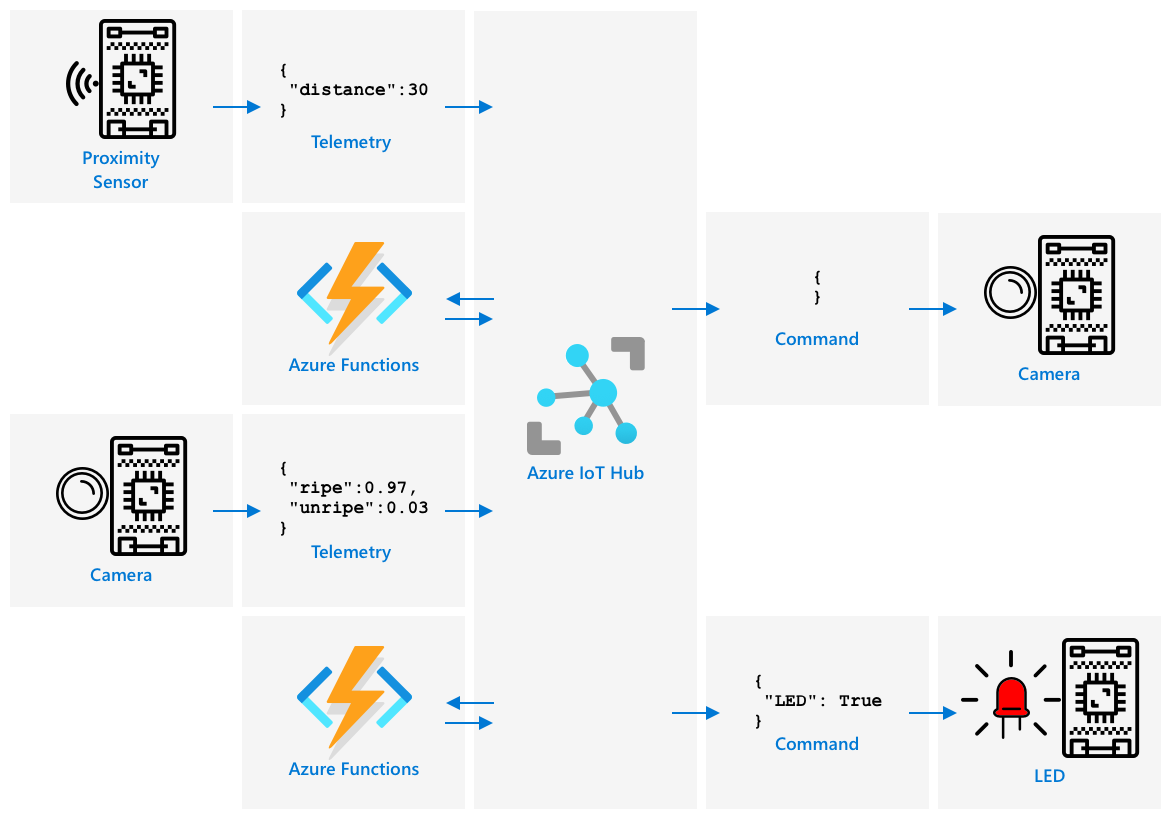
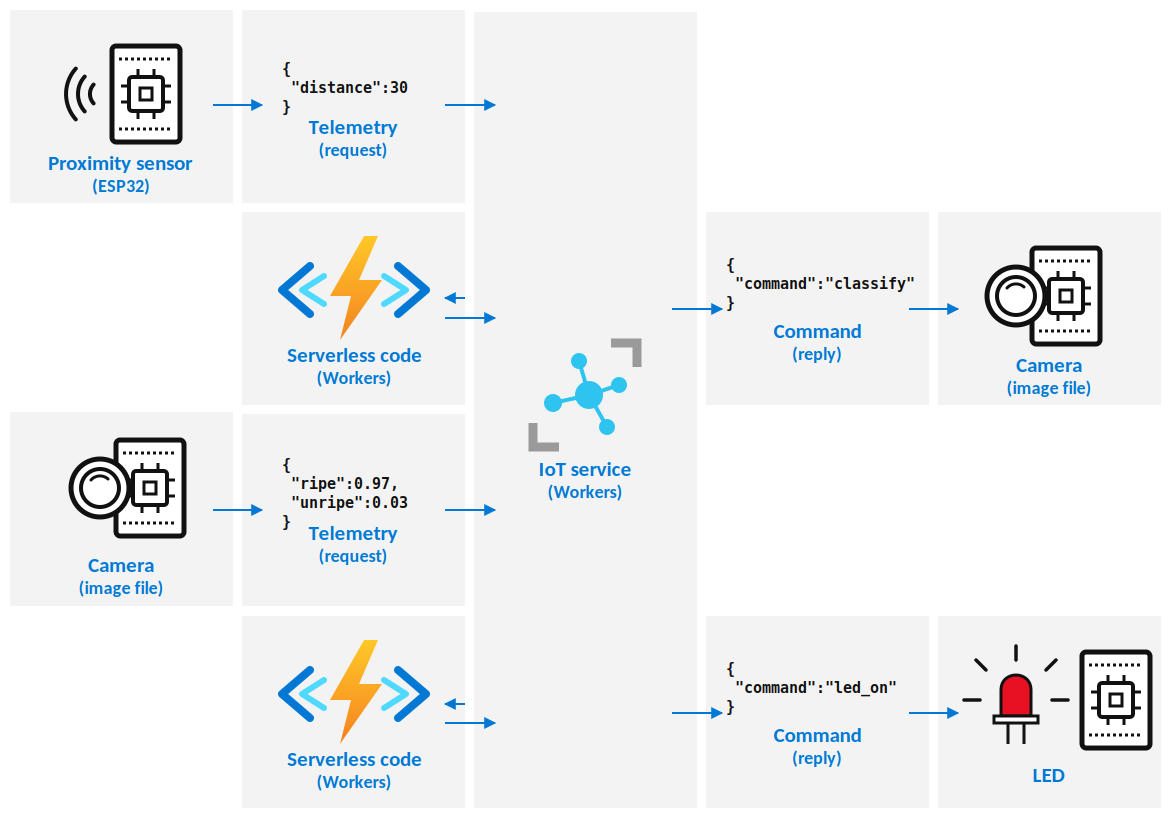
Update

diff --git a/4-manufacturing/lessons/16-trigger-fruit-detector/README.md b/4-manufacturing/lessons/16-trigger-fruit-detector/README.md
@@ -19,10 +19,6 @@ In this lesson we'll cover:
 * [Using developer devices to simulate multiple IoT devices](#using-developer-devices-to-simulate-multiple-iot-devices)
 * [Moving to production](#moving-to-production)
 
-> 🗑 This is the last lesson in this project, so after completing this lesson and the assignment, don't forget to clean up your cloud services. You will need the services to complete the assignment, so make sure to complete that first.
->
-> Refer to [the clean up your project guide](../../../clean-up.md) if necessary for instructions on how to do this.
-
 ## Architect complex IoT applications
 
 IoT applications are made up of many components. This includes a variety of things, and a variety of internet services.
@@ -45,16 +41,15 @@ The diagram above shows a reference IoT architecture.
 * **Insights** come from serverless applications, or from analytics run on stored data.
 * **Actions** can be commands sent to devices, or visualization of data allowing humans to make decisions.
 
-![A reference iot architecture](../../../images/iot-reference-architecture-azure.png)
+![A reference iot architecture with the services used in these lessons](../../../images/iot-reference-architecture-cloudflare.png)
 
-The diagram above shows some of the components and services covered so far in these lessons and how the link together in a reference IoT architecture.
+The diagram above shows some of the components and services covered so far in these lessons and how they link together in a reference IoT architecture.
 
-* **Things** - you've written device code to capture data from sensors, and analyse images using Custom Vision running both in the cloud and on an edge device. This data was sent to IoT Hub.
-* **Insights** - you've used Azure Functions to respond to messages sent to an IoT Hub, and stored data for later analysis in Azure Storage.
-* **Actions** - you've controlled actuators based on decisions made in the cloud and commands sent to the devices, and you've visualized data using Azure Maps.
+* **Things** - you've written device code to capture data from sensors, and classify images using a Roboflow model running both in the cloud and on an edge server. This data was sent to your IoT service on Cloudflare Workers.
+* **Insights** - you've used serverless code in your IoT service to respond to the telemetry it receives, and stored data for later analysis in Workers KV.
+* **Actions** - you've controlled actuators based on decisions made in the cloud and commands sent back to the devices, and you've visualized data on a map using Leaflet and OpenStreetMap.
 
-
-✅ Think about other IoT devices you have used, such as smart home appliances. What are the things, insights and actions involved in that device and it's software?
+✅ Think about other IoT devices you have used, such as smart home appliances. What are the things, insights and actions involved in that device and its software?
 
 This pattern can be scaled out as large or small as you need, adding more devices and more services.
 
@@ -78,11 +73,11 @@ Imagine you have been given the task of building a fruit quality detector to be 
 
 You need to build a system where fruit is detected as it arrives on the conveyer belt, it is then photographed and checked using an AI model running on the edge. The results are then sent to the cloud to be stored, and if the fruit is unripe a notification is given so the unripe fruit can be removed.
 
-|   |   |
-| - | - |
-| **Things** | Detector for fruit arriving on the conveyor belt<br>Camera to photograph and classify the fruit<br>Edge device running the classifier<br>Device to notify of unripe fruit |
-| **Insights** | Decide to check the ripeness of the fruit<br>Store the results of the ripeness classification<br>Determine if there is a need to alert about unripe fruit |
-| **Actions** | Send a command to a device to photograph the fruit and check it with an image classifier<br>Send a command to a device to alert that the fruit is unripe |
+|              |                                                                                                                                                                           |
+|--------------|---------------------------------------------------------------------------------------------------------------------------------------------------------------------------|
+| **Things**   | Detector for fruit arriving on the conveyor belt<br>Camera to photograph and classify the fruit<br>Edge device running the classifier<br>Device to notify of unripe fruit |
+| **Insights** | Decide to check the ripeness of the fruit<br>Store the results of the ripeness classification<br>Determine if there is a need to alert about unripe fruit                 |
+| **Actions**  | Send a command to a device to photograph the fruit and check it with an image classifier<br>Send a command to a device to alert that the fruit is unripe                  |
 
 ### Prototyping your application
 
@@ -91,13 +86,15 @@ You need to build a system where fruit is detected as it arrives on the conveyer
 The diagram above shows a reference architecture for this prototype application.
 
 * An IoT device with a proximity sensor detects the arrival of fruit. This sends a message to the cloud to say fruit has been detected.
-* A serverless application in the cloud sends a command to another device to take a photograph and classify the image.
-* An IoT device with a camera takes a picture and sends it to an image classifier running on the edge. The results are then sent to the cloud.
-* A serverless application in the cloud stores this information to be analyzed later to see what percentage of fruit is unripe. If the fruit is unripe it sends a command to another iot device to alert factory workers there is unripe fruit via an LED.
+* Serverless code in your IoT service in the cloud sends a command to another device to take a photograph and classify the image.
+* An IoT device with a camera takes a picture and sends it to an image classifier running on the edge, the Roboflow Inference server you set up in the previous project. The results are then sent to the cloud.
+* Serverless code in your IoT service stores this information to be analyzed later to see what percentage of fruit is unripe. If the fruit is unripe it sends a command to another IoT device to alert factory workers there is unripe fruit via an LED.
 
-> 💁 This entire IoT application could be implemented as a single device, with all the logic to start the image classification and control the LED built in. It could use an IoT Hub just to track the number of unripe fruits detected and configure the device. In this lesson it is expanded to demonstrate the concepts for large scale IoT applications.
+> 💁 This entire IoT application could be implemented as a single device, with all the logic to start the image classification and control the LED built in. It could use an IoT service just to track the number of unripe fruits detected and configure the device. In this lesson it is expanded to demonstrate the concepts for large scale IoT applications.
 
-For the prototype, you will implement all of this on a single device. If you are using a microcontroller then you will use a separate edge device to run the image classifier. You have already learned most of the things you will need to be able to build this.
+> 💁 In your IoT service, commands travel in the reply to the telemetry that a device sends, and a device only receives a command when it sends a request. In this prototype all the devices are simulated by one program on one board, so this program sends the telemetry and acts on the commands in the replies, and passes them to the right part of the program.
+
+For the prototype, you will implement all of this on a single device. Your ESP32 will use a separate edge device, such as the virtual machine from the previous project, to run the image classifier. Since your board does not have a camera, it will use an image file stored on the board, as you did in the previous projects. You have already learned most of the things you will need to be able to build this.
 
 ## Trigger fruit quality checking from a sensor
 
@@ -109,22 +106,16 @@ Proximity sensors can be used to measure the distance from the sensor to an obje
 
 > 💁 You have probably used proximity sensors without even knowing about it. Most smartphone will turn the screen off when you hold them to your ear to stop you accidentally ending a call with your earlobe, and this works using a proximity sensor, detecting an object close to the screen during a call and disabling the touch capabilities until the phone is a certain distance away.
 
-### Task - trigger fruit quality detection from a distance sensor
-
-Work through the relevant guide to use a proximity sensor to detect an object using your IoT device:
-
-* **[Virtual IoT device](virtual-device-proximity.md) <<<<----------**
-
 ## Data used for a fruit quality detector
 
 The prototype fruit detector has multiple components communicating with each other.
 
 ![The components communicating with each other](../../../images/fruit-quality-detector-message-flow.png)
 
-* A proximity sensor measuring the distance to a piece of fruit and sending this to IoT Hub
-* The command to control the camera coming from IoT Hub to the camera device
-* The results of the image classification being sent to IoT Hub
-* The command to control an LED to alert when the fruit is unripe being sent from IoT Hub to the device with the LED
+* A proximity sensor measuring the distance to a piece of fruit and sending this to the IoT service
+* The command to control the camera coming back from the IoT service to the camera device
+* The results of the image classification being sent to the IoT service
+* The command to control an LED to alert when the fruit is unripe coming back from the IoT service to the device with the LED
 
 It is good to define the structure of these messages up front, before you build out the application.
 
@@ -152,23 +143,17 @@ You also have to consider units - is the temperature in °C or °F? If you are m
 
 Think about the data being sent for the fruit quality detector. How would you define each message? Where would you analyze the data and make decisions about what data to send?
 
-For example - triggering the image classification using the proximity sensor. The IoT device measures the distance, but where is the decision made? Does the device decide that the fruit is close enough and sends a message to tell the IoT Hub to trigger the classification? Or does it send proximity measurements and let the IoT Hub decide?
+For example - triggering the image classification using the proximity sensor. The IoT device measures the distance, but where is the decision made? Does the device decide that the fruit is close enough and sends a message to tell the IoT service to trigger the classification? Or does it send proximity measurements and let the IoT service decide?
 
 The answer to questions like this is - it depends. Each use case is different, which is why as an IoT developer you need to understand the system you are building, how it is used, and the data being detected.
 
-* If the decision is made by the IoT Hub, you need to send multiple distance measurements.
-* If you send too many messages, it increases the cost of the IoT Hub, and the amount of bandwidth needed by your IoT devices (especially in a factory with millions of devices). It can also slow down your device.
+* If the decision is made by the IoT service, you need to send multiple distance measurements.
+* If you send too many messages, it increases the cost of the IoT service, and the amount of bandwidth needed by your IoT devices (especially in a factory with millions of devices). It can also slow down your device. For example, one distance measurement every second is 86,400 requests a day for a single device, and the free plan of Cloudflare Workers allows 100,000 requests a day.
 * If you make the decision on the device, you will need to provide a way to configure the device to fine tune the machine.
 
 ## Using developer devices to simulate multiple IoT devices
 
 To build your prototype, you will need your IoT dev kit to act like multiple devices, sending telemetry and responding to commands.
-
-### Simulating multiple IoT devices on a Raspberry Pi or virtual IoT hardware
-
-When using a single board computer like a Raspberry Pi, you are able to run multiple applications at once. This means you can simulate multiple IoT devices by creating multiple applications, one per 'IoT device'. For example, you can implement each device as a separate Python file and run them in different terminal sessions.
-
-> 💁 Be aware that some hardware won't work when being accessed by multiple applications running simultaneously.
 
 ### Simulating multiple devices on a microcontroller
 
@@ -176,8 +161,8 @@ Microcontrollers are more complicated to simulate multiple devices. Unlike singl
 
 Some suggestions to make this process easier are:
 
-* Create one or more classes per IoT device - for example classes called `DistanceSensor`, `ClassifierCamera`, `LEDController`. Each one can have it's own `setup` and `loop` methods called by the main `setup` and `loop` functions.
-* Handle commands in a single place, and direct them to the relevant device class as required.
+* Create one or more classes per IoT device - for example classes called `DistanceSensor`, `FruitClassifier`, `LEDController`. Each one can have its own `setup` and `loop` methods called by the main `setup` and `loop` functions.
+* Handle commands in a single place, and direct them to the relevant device class as required. In your IoT service, commands arrive in the reply to a request, so the code that sends the request is the place to handle them.
 * In the main `loop` function, you will need to consider the timing for each different device. For example, if you have one device class that needs to process every 10 seconds, and another that needs to process every 1 second, then in your main `loop` function use a 1 second delay. Every `loop` call triggers the relevant code for the device that needs to process every second, and use a counter to count each loop, processing the other device when the counter reaches 10 (resetting the counter afterwards).
 
 ## Moving to production
@@ -185,8 +170,8 @@ Some suggestions to make this process easier are:
 The prototype will form the basis of a final production system. Some of the differences when you move to production would be:
 
 * Ruggedized components - using hardware designed to withstand the noise, heat, vibration and stress of a factory.
-* Using internal communications - some of the components would communicate directly avoiding the hop to the cloud, only sending data to the cloud to be stored. How this is done depends on the factory setup, with either direct communications, or by running part of the IoT service on the edge using a gateway device.
-* Configuration options - each factory and use case is different, so the hardware would need to be configurable. For example, the proximity sensor may need to detect different fruit at different distances. Rather than hard code the distance to trigger the classification, you would want this to be configurable via the could, for example using a device twin
+* Using internal communications - some of the components would communicate directly avoiding the hop to the cloud, only sending data to the cloud to be stored. How this is done depends on the factory setup, with either direct communications, or by running part of the IoT service on the edge using a gateway device, in the same way that you ran the image classifier on your own server.
+* Configuration options - each factory and use case is different, so the hardware would need to be configurable. For example, the proximity sensor may need to detect different fruit at different distances. Rather than hard code the distance to trigger the classification, you would want this to be configurable via the cloud, for example with a setting stored in your IoT service that the device receives in the reply to its telemetry.
 * Automated fruit removal - instead of an LED to alert that fruit is unripe, automated devices would remove it.
 
 ✅ Do some research: In what other ways would production devices differ from developer kits?
@@ -203,10 +188,6 @@ For example - a vehicle tracking device that combines GPS with sensors to monito
 
 ## Review & Self Study
 
-* Read more about IoT architecture on the [Azure IoT reference architecture documentation on Microsoft docs](https://docs.microsoft.com/azure/architecture/reference-architectures/iot?WT.mc_id=academic-17441-jabenn)
-* Read more about device twins in the [understand and use device twins in IoT Hub documentation on Microsoft docs](https://docs.microsoft.com/azure/iot-hub/iot-hub-devguide-device-twins?WT.mc_id=academic-17441-jabenn)
+* Read more about how serverless code is triggered and configured in the [Cloudflare Workers documentation](https://developers.cloudflare.com/workers/), including the pages about environment variables and secrets
+* Read more about running models on your own hardware in the [Roboflow Inference documentation](https://inference.roboflow.com)
 * Read about OPC-UA, a machine to machine communication protocol used in industrial automation on the [OPC-UA page on Wikipedia](https://wikipedia.org/wiki/OPC_Unified_Architecture)
-
-## Assignment
-
-[Build a fruit quality detector](assignment.md)
